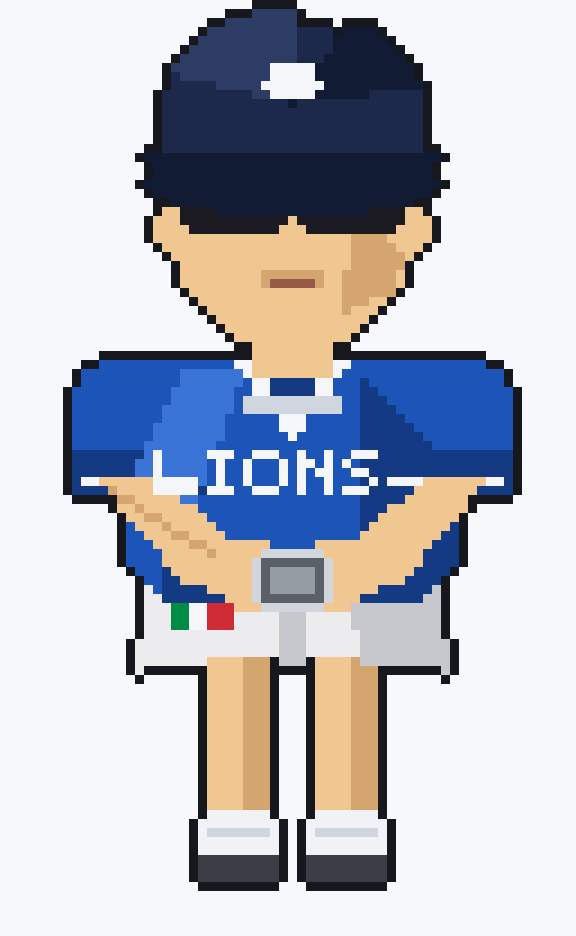
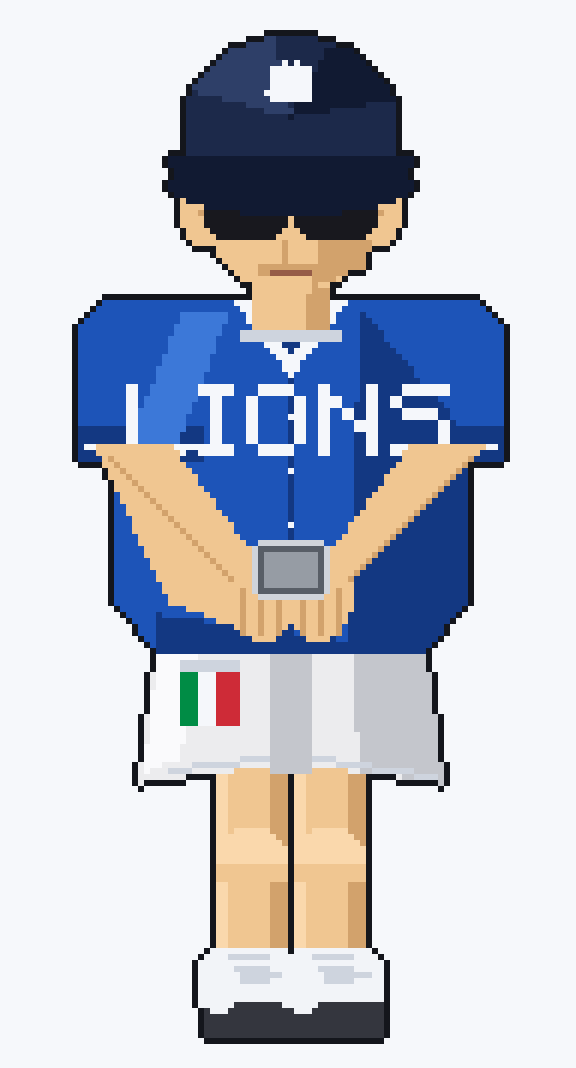
Refine pixel character: fix body proportions and double resolution for detail

diff --git a/pixel_char.py b/pixel_char.py
@@ -1,186 +1,185 @@
 #!/usr/bin/env python3
-"""고해상도 전신 픽셀 캐릭터 - 삼성 라이온즈 유니폼 인물."""
+"""고해상도 전신 픽셀 캐릭터 - 삼성 라이온즈 유니폼 인물 (비율 보정판)."""
 from PIL import Image, ImageDraw
 
-# 로직 해상도 (1px = 픽셀아트 1도트)
-W, H = 64, 104
-SCALE = 9
+W, H = 96, 178
+SCALE = 6
 img = Image.new("RGBA", (W, H), (0, 0, 0, 0))
 d = ImageDraw.Draw(img)
 
 # ---- 팔레트 ----
 NAVY   = (28, 41, 74)
-NAVY_D = (18, 27, 52)
-NAVY_L = (44, 60, 100)
+NAVY_D = (17, 26, 50)
+NAVY_L = (46, 63, 104)
 SKIN   = (240, 198, 145)
-SKIN_S = (212, 165, 110)
-SKIN_H = (250, 215, 170)
-HAIR   = (35, 27, 20)
-LENS   = (26, 26, 32)
-LENS_H = (70, 72, 84)
+SKIN_S = (210, 162, 108)
+SKIN_H = (250, 216, 172)
+HAIR   = (32, 25, 18)
+LENS   = (24, 24, 30)
+LENS_H = (78, 80, 92)
 BLUE   = (29, 84, 184)
-BLUE_S = (20, 58, 132)
-BLUE_H = (58, 116, 214)
-WHITE  = (244, 246, 250)
-WHT_S  = (208, 214, 224)
+BLUE_S = (19, 56, 130)
+BLUE_H = (60, 120, 216)
+WHITE  = (245, 247, 251)
+WHT_S  = (206, 212, 222)
 SHRT   = (236, 236, 238)
-SHRT_S = (198, 200, 206)
-PHONE  = (210, 214, 220)
-PHONE_E= (90, 96, 104)
+SHRT_S = (196, 198, 204)
+SHRT_H = (250, 250, 252)
+PHONE  = (208, 212, 218)
+PHONE_E= (88, 94, 102)
+PHONE_S= (150, 156, 164)
 GREEN  = (0, 140, 69)
 RED    = (206, 43, 55)
-SHOE   = (240, 242, 246)
-SHOE_S = (60, 62, 70)
-CX = 32  # 중심선
+SHOE   = (242, 244, 248)
+SHOE_S = (52, 54, 62)
+CX = 48
 
-def rrect(box, r, fill):
-    d.rounded_rectangle(box, radius=r, fill=fill)
-def ell(box, fill):
-    d.ellipse(box, fill=fill)
-def poly(pts, fill):
-    d.polygon(pts, fill=fill)
+def rrect(box, r, fill): d.rounded_rectangle(box, radius=r, fill=fill)
+def ell(box, fill):      d.ellipse(box, fill=fill)
+def poly(pts, fill):     d.polygon(pts, fill=fill)
 
 # =========================================================
-# 다리 + 신발 (뒤에서 앞 순서)
+# 다리 + 신발
 # =========================================================
-# 허벅지/종아리
-for sx in (-9, 3):  # 왼/오른 다리 시작 오프셋
-    lx = CX + sx
-    rrect((lx, 70, lx+6, 92), 2, SKIN)
-    d.rectangle((lx+4, 72, lx+6, 92), fill=SKIN_S)  # 다리 음영
-# 무릎 살짝
-# 신발 (운동화)
-for sx in (-10, 2):
-    lx = CX + sx
-    rrect((lx, 90, lx+8, 97), 2, SHOE)
-    d.rectangle((lx, 95, lx+8, 97), fill=SHOE_S)  # 밑창
-    d.line((lx+1, 92, lx+7, 92), fill=WHT_S)
+for (x0, x1) in [(36, 47), (49, 60)]:
+    rrect((x0, 122, x1, 162), 3, SKIN)
+    d.rectangle((x1-2, 124, x1, 160), fill=SKIN_S)   # 종아리 바깥 음영
+    d.rectangle((x0, 124, x0+1, 158), fill=SKIN_H)   # 안쪽 하이라이트
+    ell((x0, 138, x1, 146), SKIN_H)                  # 무릎 하이라이트
+    d.rectangle((x0, 144, x1, 146), fill=SKIN)
+# 신발 (운동화 + 끈 + 밑창)
+for (x0, x1, toe) in [(33, 49, 1), (47, 63, 1)]:
+    rrect((x0, 158, x1, 169), 3, SHOE)
+    d.rectangle((x0+toe, 167, x1, 172), fill=SHOE_S)      # 밑창
+    rrect((x0+1, 168, x1, 172), 2, SHOE_S)
+    d.line((x0+2, 162, x1-2, 162), fill=WHT_S)            # 갑피 라인
+    for ly in (159, 161, 163):                            # 끈
+        d.line((x0+5, ly, x1-5, ly), fill=WHT_S)
+    ell((x0, 160, x0+6, 168), SHOE)                       # 발등
 
 # =========================================================
 # 반바지 (흰색, 통넓음)
 # =========================================================
-poly([(17,58),(47,58),(49,74),(34,72),(30,72),(15,74)], SHRT)
-d.rectangle((31, 60, 33, 73), fill=SHRT_S)       # 가운데 솔기
-poly([(38,59),(47,59),(49,74),(40,73)], SHRT_S)  # 오른쪽 음영
+poly([(27, 100), (69, 100), (73, 130), (51, 127), (45, 127), (23, 130)], SHRT)
+d.rectangle((45, 102, 51, 128), fill=SHRT_S)                 # 가운데 솔기
+poly([(58, 101), (69, 100), (73, 130), (60, 128)], SHRT_S)   # 오른쪽 음영
+poly([(27, 100), (34, 100), (29, 126), (24, 128)], SHRT_H)   # 왼쪽 하이라이트
+d.line((28, 128, 44, 126), fill=WHT_S)                       # 밑단
+d.line((52, 126, 72, 129), fill=WHT_S)
 # 이탈리아 패치 (왼쪽 허벅지)
-d.rectangle((19, 64, 21, 69), fill=GREEN)
-d.rectangle((21, 64, 23, 69), fill=WHITE)
-d.rectangle((23, 64, 25, 69), fill=RED)
+d.rectangle((30, 110, 33, 120), fill=GREEN)
+d.rectangle((33, 110, 36, 120), fill=WHITE)
+d.rectangle((36, 110, 39, 120), fill=RED)
+d.rectangle((30, 110, 39, 111), fill=WHT_S)
 
 # =========================================================
 # 유니폼 상의 (헐렁한 핏)
 # =========================================================
 # 몸통
-poly([(20,40),(44,40),(50,52),(50,62),(46,66),(18,66),(14,62),(14,52)], BLUE)
-# 어깨/소매
-rrect((8, 40, 22, 54), 4, BLUE)    # 왼 소매
-rrect((42, 40, 56, 54), 4, BLUE)   # 오른 소매
-d.rectangle((8, 50, 22, 54), fill=BLUE_S)
-d.rectangle((42, 50, 56, 54), fill=BLUE_S)
+poly([(30, 50), (66, 50), (77, 72), (77, 100), (70, 108),
+      (26, 108), (19, 100), (19, 72)], BLUE)
+# 소매
+rrect((13, 50, 33, 76), 6, BLUE)
+rrect((63, 50, 83, 76), 6, BLUE)
+d.rectangle((13, 71, 33, 76), fill=BLUE_S)
+d.rectangle((63, 71, 83, 76), fill=BLUE_S)
+d.line((14, 74, 32, 74), fill=WHITE)            # 소매 흰 라인
+d.line((64, 74, 82, 74), fill=WHITE)
 # 음영 (오른쪽/아래)
-poly([(40,42),(50,52),(50,62),(46,66),(40,66)], BLUE_S)
-poly([(18,62),(46,66),(18,66)], BLUE_S)
-# 하이라이트 (왼쪽)
-poly([(20,41),(26,41),(20,58),(15,54),(15,52)], BLUE_H)
-# 소매 흰 라인
-d.line((9, 53, 21, 53), fill=WHITE)
-d.line((43, 53, 55, 53), fill=WHITE)
+poly([(60, 52), (77, 72), (77, 100), (70, 108), (58, 108)], BLUE_S)
+poly([(26, 102), (70, 108), (26, 108)], BLUE_S)
+# 하이라이트 (왼쪽 어깨)
+poly([(30, 52), (37, 52), (27, 78), (21, 74)], BLUE_H)
+# 단추 플래킷
+d.line((48, 56, 48, 104), fill=BLUE_S)
+for by in range(60, 104, 9):
+    d.point((48, by), fill=WHITE)
+# V넥 칼라
+poly([(39, 50), (57, 50), (48, 62)], WHITE)
+poly([(42, 50), (54, 50), (48, 58)], BLUE_S)
+# SAMSUNG 가슴 라인
+d.rectangle((40, 55, 56, 56), fill=WHT_S)
 
-# V넥 칼라 (흰색)
-poly([(26,40),(38,40),(32,48)], WHITE)
-poly([(28,40),(36,40),(32,45)], BLUE_S)  # 안쪽 그림자
-
-# 가슴 SAMSUNG 작은 라인
-d.rectangle((27, 44, 37, 45), fill=WHT_S)
-
-# =========================================================
-# 팔 (소매에서 내려와 가운데 휴대폰 잡기)
-# =========================================================
-# 왼팔
-poly([(11,53),(17,53),(28,62),(26,66),(20,64)], SKIN)
-# 오른팔
-poly([(47,53),(53,53),(44,64),(38,66),(36,62)], SKIN)
-d.line((12,54,26,63), fill=SKIN_S)
-
-# 손
-ell((24, 60, 31, 67), SKIN)
-ell((33, 60, 40, 67), SKIN)
-# 휴대폰
-rrect((28, 61, 36, 67), 1, PHONE)
-d.rectangle((29, 62, 35, 66), fill=PHONE_E)
-d.rectangle((30, 63, 34, 65), fill=(150,156,164))
-
-# =========================================================
-# LIONS 워드마크 (흰색, 가슴)
-# =========================================================
+# LIONS 워드마크 (팔보다 먼저 그려 가슴 위쪽에 배치)
 FONT = {
- 'L':["10000","10000","10000","10000","11111"],
- 'I':["111","010","010","010","111"],
- 'O':["01110","10001","10001","10001","01110"],
- 'N':["1001","1101","1011","1001","1001"],
- 'S':["0111","1000","0110","0001","1110"],
+ 'L':["10000","10000","10000","10000","10000","11111"],
+ 'I':["111","010","010","010","010","111"],
+ 'O':["01110","10001","10001","10001","10001","01110"],
+ 'N':["10001","11001","10101","10011","10001","10001"],
+ 'S':["01111","10000","01110","00001","00001","11110"],
 }
-def draw_text(word, x, y, col):
+def draw_text(word, x, y, col, sc=2):
     cx = x
     for ch in word:
-        pat = FONT[ch]
-        w = len(pat[0])
-        for yy in range(5):
+        pat = FONT[ch]; w = len(pat[0])
+        for yy in range(6):
             for xx in range(w):
                 if pat[yy][xx] == '1':
-                    d.point((cx+xx, y+yy), fill=col)
-        cx += w + 1
-draw_text("LIONS", 17, 50, WHITE)
+                    d.rectangle((cx+xx*sc, y+yy*sc, cx+xx*sc+sc-1, y+yy*sc+sc-1), fill=col)
+        cx += (w + 1) * sc
+draw_text("LIONS", 21, 64, WHITE, sc=2)
+
+# 팔 (소매 → 가운데 휴대폰)
+poly([(16, 74), (28, 74), (46, 98), (42, 105), (28, 100)], SKIN)
+poly([(68, 74), (80, 74), (54, 100), (50, 105), (50, 98)], SKIN)
+d.line((18, 76, 42, 100), fill=SKIN_S)
+d.line((78, 76, 54, 100), fill=SKIN_S)
+# 손 + 손가락
+ell((38, 92, 49, 106), SKIN)
+ell((47, 92, 58, 106), SKIN)
+for fx in (40, 43, 46):
+    d.line((fx, 98, fx, 105), fill=SKIN_S)
+for fx in (50, 53, 56):
+    d.line((fx, 98, fx, 105), fill=SKIN_S)
+# 휴대폰
+rrect((42, 90, 54, 99), 2, PHONE)
+d.rectangle((43, 91, 53, 98), fill=PHONE_E)
+d.rectangle((44, 92, 52, 97), fill=PHONE_S)
 
 # =========================================================
 # 목
 # =========================================================
-d.rectangle((28, 33, 36, 41), fill=SKIN)
-d.rectangle((28, 33, 36, 36), fill=SKIN_S)  # 턱 그림자
+d.rectangle((42, 44, 54, 54), fill=SKIN)
+d.rectangle((42, 44, 54, 47), fill=SKIN_S)     # 턱 그림자
+d.rectangle((51, 44, 54, 54), fill=SKIN_S)
 
 # =========================================================
 # 머리 / 얼굴
 # =========================================================
-ell((19, 12, 45, 38), SKIN)         # 얼굴
-poly([(40,16),(45,22),(43,32),(38,34)], SKIN_S)  # 얼굴 우측 음영
-# 귀
-ell((17, 22, 21, 28), SKIN)
-ell((43, 22, 47, 28), SKIN)
-
+ell((33, 16, 63, 48), SKIN)
+poly([(56, 22), (63, 30), (60, 44), (52, 47)], SKIN_S)   # 우측 얼굴 음영
+ell((30, 30, 36, 40), SKIN); ell((60, 30, 66, 40), SKIN) # 귀
+d.point((33, 35), fill=SKIN_S); d.point((63, 35), fill=SKIN_S)
 # 선글라스
-rrect((20, 19, 31, 25), 2, LENS)
-rrect((33, 19, 44, 25), 2, LENS)
-d.rectangle((31, 21, 33, 22), fill=LENS)        # 브릿지
-d.line((21, 20, 25, 20), fill=LENS_H)           # 렌즈 반사
-d.line((34, 20, 38, 20), fill=LENS_H)
-d.line((18, 21, 20, 21), fill=LENS)             # 안경 다리
-d.line((44, 21, 46, 21), fill=LENS)
-
-# 입
-d.rectangle((29, 30, 35, 31), fill=SKIN_S)
-d.line((30, 31, 34, 31), fill=(150,90,70))
+rrect((34, 30, 47, 39), 3, LENS)
+rrect((49, 30, 62, 39), 3, LENS)
+d.rectangle((47, 32, 49, 34), fill=LENS)          # 브릿지
+d.line((36, 32, 41, 32), fill=LENS_H)             # 렌즈 반사
+d.line((51, 32, 56, 32), fill=LENS_H)
+d.line((31, 33, 34, 33), fill=LENS)               # 안경 다리
+d.line((62, 33, 65, 33), fill=LENS)
+# 코 / 입
+d.line((47, 40, 47, 43), fill=SKIN_S)
+d.rectangle((43, 44, 53, 45), fill=SKIN_S)
+d.line((45, 45, 51, 45), fill=(150, 92, 72))
 
 # =========================================================
 # 모자
 # =========================================================
-# 크라운 (머리에 맞는 돔)
-d.ellipse((18, 3, 46, 21), fill=NAVY)
-d.rectangle((18, 12, 46, 18), fill=NAVY)
-# 챙 (앞으로 숙인 납작한 형태)
-poly([(16,17),(48,17),(46,21),(18,21)], NAVY_D)
-d.ellipse((16, 17, 48, 23), fill=NAVY_D)
-# 모자 음영/하이라이트
-d.pieslice((18, 1, 46, 21), 200, 270, fill=NAVY_L)  # 왼쪽 하이라이트
-d.pieslice((18, 1, 46, 21), 300, 350, fill=NAVY_D)  # 오른쪽 음영
-# 로고 (흰 마크 단순화)
-d.rectangle((30, 7, 34, 10), fill=WHITE)
-d.point((29, 9), fill=WHITE)
-d.point((35, 9), fill=WHITE)
+ell((31, 6, 65, 32), NAVY)                 # 크라운
+d.rectangle((31, 18, 65, 27), fill=NAVY)
+poly([(28, 26), (68, 26), (66, 31), (30, 31)], NAVY_D)   # 챙
+ell((28, 26, 68, 35), NAVY_D)
+d.pieslice((31, 6, 65, 32), 200, 260, fill=NAVY_L)       # 좌측 하이라이트
+d.pieslice((31, 6, 65, 32), 295, 348, fill=NAVY_D)       # 우측 음영
+d.rectangle((45, 11, 51, 16), fill=WHITE)                # 로고
+d.point((44, 15), fill=WHITE); d.point((51, 15), fill=WHITE)
+d.point((47, 10), fill=WHITE); d.point((49, 10), fill=WHITE)
 
 # =========================================================
-# 외곽선 자동 생성 (실루엣 주변 1px 어둡게)
+# 외곽선 자동 생성
 # =========================================================
-OUTLINE = (22, 24, 30, 255)
+OUTLINE = (20, 22, 28, 255)
 px = img.load()
 opaque = [[px[x, y][3] > 0 for y in range(H)] for x in range(W)]
 edges = []
@@ -191,8 +190,7 @@ for x in range(W):
         for dx, dy in ((1,0),(-1,0),(0,1),(0,-1)):
             nx, ny = x+dx, y+dy
             if 0 <= nx < W and 0 <= ny < H and opaque[nx][ny]:
-                edges.append((x, y))
-                break
+                edges.append((x, y)); break
 for (x, y) in edges:
     px[x, y] = OUTLINE
 
